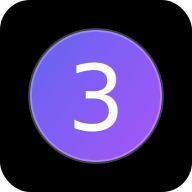
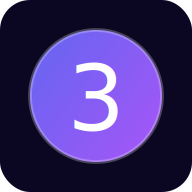
Adopt T3A "Something Big" bg — deep indigo radial gradient
The pure-black canvas in the previous rebrand pass ran flat.
Switching to the deep indigo-purple radial gradient from the
"Something Big Is Coming" launch teaser so the site inherits
the same spotlight feel.

src/styles/global.css
- --bg now #0B0722 (deep indigo-black solid fallback)
- --bg-2 #160D33, --bg-3 #1E1445, --line #2A1F55 — purple-tinted
  card and border surfaces so cards don't read as flat black-on-
  purple slabs against the gradient
- New --bg-radial token: radial-gradient(1400x900 at 50% -10%,
  #2A1D63 → #14093A → #0B0722)
- body now paints (--bg-radial, --bg) with background-attachment:
  fixed so the spotlight stays anchored while scrolling
- html keeps the solid --bg for the overscroll bounce area

Meta
- index.html theme-color: #0B0722
- public/manifest.webmanifest background_color / theme_color: #0B0722
- favicon.svg / apple-touch-icon.svg card fill: #0B0722
- favicon.ico + apple-touch + icon-192/512 re-rasterized

Claude-Session: https://claude.ai/code/session_011m993AkU5vBSzbaFFgYVKG

diff --git a/src/styles/global.css b/src/styles/global.css
@@ -10,13 +10,21 @@
    * no component churn — semantic roles are preserved even though
    * the values now belong to a pure-black dark theme. */
 
-  /* ---- BASE (pure black canvas) ---- */
-  --bg: #000000;             /* pure black — primary background */
-  --bg-2: #0D0D0D;           /* card surface */
-  --bg-3: #1A1A1A;           /* elevated / muted surface */
-  --bg-sage: #0D0D0D;        /* card variant — same treatment as --bg-2 */
-  --line: #262626;           /* ambient border */
+  /* ---- BASE (deep indigo-purple canvas — matches T3A "Something Big" teaser) ----
+   * The site body paints a radial gradient using --bg-radial (see html/body
+   * rule below). --bg stays as a solid fallback for surfaces that render
+   * behind or above the gradient. */
+  --bg: #0B0722;             /* deep indigo-black — solid fallback / edges */
+  --bg-2: #160D33;           /* card surface — purple-tinted */
+  --bg-3: #1E1445;           /* elevated / muted surface */
+  --bg-sage: #160D33;        /* card variant — same treatment as --bg-2 */
+  --line: #2A1F55;           /* ambient border — purple-tinted */
   --line-soft: rgba(255, 255, 255, 0.06);
+
+  --bg-radial: radial-gradient(1400px 900px at 50% -10%,
+                 #2A1D63 0%,
+                 #14093A 55%,
+                 #0B0722 100%);
 
   /* ---- TEXT ---- */
   /* Historical "--paper" is the primary text color, not the paper ground.
@@ -67,7 +75,11 @@
 
 * { box-sizing: border-box; margin: 0; padding: 0; }
 html { scroll-behavior: smooth; }
-html, body { background: var(--bg); }
+html { background: var(--bg); }
+body {
+  background: var(--bg-radial), var(--bg);
+  background-attachment: fixed;
+}
 
 body {
   font-family: var(--font-sans);

diff --git a/index.html b/index.html
@@ -7,7 +7,7 @@
     <link rel="apple-touch-icon" sizes="180x180" href="/apple-touch-icon.png" />
     <link rel="manifest" href="/manifest.webmanifest" />
     <meta name="viewport" content="width=device-width, initial-scale=1.0" />
-    <meta name="theme-color" content="#000000" />
+    <meta name="theme-color" content="#0B0722" />
     <meta
       name="description"
       content="Rehearse the workplace moments that decide your job. Probation Blueprint and AI-Ready Behaviours — private, mobile-first, no scores, no pass or fail. Built in Canada for professionals worldwide."
